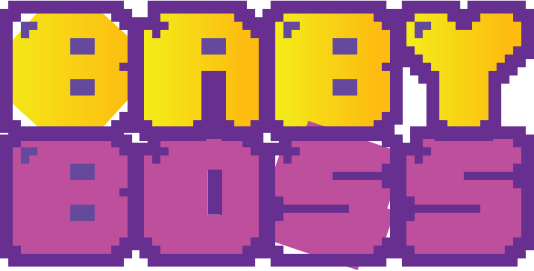
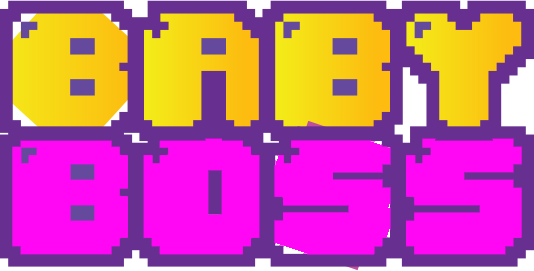
update ui

diff --git a/src/views/market/index.tsx b/src/views/market/index.tsx
@@ -6,11 +6,11 @@ import styled from 'styled-components';
 import { toast } from 'react-toastify';
 import { ApolloClient, InMemoryCache } from '@apollo/client';
 import { GRAPH_API_URL_MARKETPLACE, BACKEND_URL } from 'config/nfts';
-import { GET_NFTS, GetNftsData, Nft, GET_HISTORIES, GET_MARKET_ITEMS, Histories, GET_BUY_HISTORIES, BuyHistoriesData, BuyHistories } from 'queries/querys';
+import { GET_NFTS, GetNftsData, Nft, GET_HISTORIES, HistoriesData, Histories, GET_BUY_HISTORIES, BuyHistoriesData, BuyHistories } from 'queries/querys';
 import { getMarketplaceContract } from 'utils/contractHelpers';
 import Moralis from "moralis";
 // import * from "@moralisweb3";
-import axios from 'axios';
+import axios, {isCancel, AxiosError} from 'axios';
 import { CHAIN } from 'config';
 import { ethers } from 'ethers';
 // import Moralis from "moralis";
@@ -126,26 +126,26 @@ const ownerWallet = '0x2db1f6eC280AECf2035567E862700f24D952573d'
 const Market = ({selectedChain}: {selectedChain: any}) => {
   const web3Context = useWeb3Context();
   const inputRef = useRef<HTMLInputElement>(null);
-  const [marketItems, setMarketItems] = useState<any>([]);
+  const [uploadHistory, setUploadHistory] = useState<any>([]);
   const [buyloadHistory, setbuyloadHistory] = useState<any>([]);
   const [tab, selectTab] = useState<string>('apparels')
   
   useEffect(() => {
     selectedChain(1);
 
-    const fetchItems =async () => {
+    const fetchItems =async (account:string) => {
 			const client = new ApolloClient({
         uri: GRAPH_API_URL_MARKETPLACE,
         cache: new InMemoryCache(),
       });
 
-      const lists = await client.query<any>({ query: GET_MARKET_ITEMS });
+      const lists = await client.query<any>({ query: GET_HISTORIES });
       const buylists = await client.query<any>({ query: GET_BUY_HISTORIES })
 
-      if(lists && lists.data.itemLists.length > 0) {
-        setMarketItems(lists.data.itemLists);
+      if(lists && lists.data.listHistories.length > 0) {
+        setUploadHistory(lists.data.listHistories);
       } else {
-        setMarketItems([]);
+        setUploadHistory([]);
       } 
       // console.log(lists);
       if(buylists && buylists.data.buyHistories.length > 0) {
@@ -156,8 +156,10 @@ const Market = ({selectedChain}: {selectedChain: any}) => {
 
 		}
     
-    fetchItems();
-  }, [selectedChain, tab, marketItems])
+		if (web3Context?.account) {
+      fetchItems(web3Context.account);
+		}
+  }, [selectedChain, tab, uploadHistory])
 
   const [modalOpen1, setModalOpen1] = useState<any>(false)  
   const [modalOpen2, setModalOpen2] = useState<any>(false)  
@@ -202,8 +204,8 @@ const Market = ({selectedChain}: {selectedChain: any}) => {
     } else if (type === "STABLE" ) {
       setSelectedPriceType("STABLE");   
       setProductPrice(priceForUSD as unknown as number);
-    } else if (type === "NONE" ){
-      setSelectedPriceType("NONE");   
+    } else if (type === "NONE" ) {
+      setSelectedPriceType("NONE");
       setProductPrice(0);
     }
  
@@ -226,9 +228,9 @@ const Market = ({selectedChain}: {selectedChain: any}) => {
     let selInfo:any;
 
     console.log("-------------");
-    console.log(marketItems);
+    console.log(uploadHistory);
 
-    marketItems.forEach((item:any) => {
+    uploadHistory.forEach((item:any) => {
       if (item.index === ind) {
         selInfo = item;
       }
@@ -606,7 +608,7 @@ const Market = ({selectedChain}: {selectedChain: any}) => {
     </div>
     <div className='px-4 lg:px-32 py-4 lg:py-4 ' id="nft-lists">
       <div className="grid lg:grid-cols-3 grid-cols-1">
-        {marketItems?.map((item:Histories, index:number) => {
+        {uploadHistory?.map((item:Histories, index:number) => {
           console.log("sniper: count: ", item.count)
           let result = []
           for(let i = 0; i < item.count; i++) {

diff --git a/public/index.html b/public/index.html
@@ -2,7 +2,7 @@
 <html lang="en">
   <head>
     <meta charset="utf-8" />
-    <link rel="icon" href="%PUBLIC_URL%/smlogo.png" />
+    <link rel="icon" href="%PUBLIC_URL%/main-logo.png" />
     <!-- <meta
       name="description"
       content="UNBOX NFT Staking Platform"
@@ -29,7 +29,7 @@
     <meta property="og:description" content="Babyboss NFT" />
     <meta property="og:url" content="%PUBLIC_URL%/" />
     <meta property="og:site_name" content="Babyboss NFT" />
-    <meta property="og:image" content="%PUBLIC_URL%/logo320x320.png" />
+    <meta property="og:image" content="%PUBLIC_URL%/main-logo.png" />
     <meta property="og:image:width" content="420" />
     <meta property="og:image:height" content="420" />
     <meta name="twitter:card" content="summary_large_image" />
@@ -37,27 +37,10 @@
     <meta name="twitter:title" content="Babyboss NFT" />
     <meta name="twitter:image" content="%PUBLIC_URL%/logo420x420.png" />
     
-    <link rel="apple-touch-icon" href="%PUBLIC_URL%/smlogo.png"/>
-    <link rel="icon" type="image/png" sizes="32x32" href="%PUBLIC_URL%/logo320x320.png"/>
-    <link rel="icon" type="image/png" sizes="16x16" href="%PUBLIC_URL%/logo320x320.png"/>
+    <link rel="apple-touch-icon" href="%PUBLIC_URL%/main-logo.png"/>
+    <link rel="icon" type="image/png" sizes="16x16" href="%PUBLIC_URL%/images/main-logo.png"/>
     <link rel="manifest" href="%PUBLIC_URL%/manifest.json" />
-    <link rel="mask-icon" href="%PUBLIC_URL%/logo320x320.png" color="#1cae9d"></link>
-    <link rel="icon" href="%PUBLIC_URL%/favicon.ico" />
-    <!-- <link rel="apple-touch-icon" href="%PUBLIC_URL%/smlogo.png" /> -->
-    <!--
-      manifest.json provides metadata used when your web app is installed on a
-      user's mobile device or desktop. See https://developers.google.com/web/fundamentals/web-app-manifest/
-    -->
-    <!-- <link rel="manifest" href="%PUBLIC_URL%/manifest.json" /> -->
-    <!--
-      Notice the use of %PUBLIC_URL% in the tags above.
-      It will be replaced with the URL of the `public` folder during the build.
-      Only files inside the `public` folder can be referenced from the HTML.
-
-      Unlike "/favicon.ico" or "favicon.ico", "%PUBLIC_URL%/favicon.ico" will
-      work correctly both with client-side routing and a non-root public URL.
-      Learn how to configure a non-root public URL by running `npm run build`.
-    -->
+   
     <title>BABY BOSS</title>
   </head>
   <body>

diff --git a/src/layouts/Footer.tsx b/src/layouts/Footer.tsx
@@ -2,6 +2,7 @@ import React from 'react'
 import { Link, useNavigate } from 'react-router-dom'
 import styled from 'styled-components'
 import footerLayer from '../assets/footer.png'
+import { url } from 'inspector'
 
 const Footer = () => {
   
@@ -18,9 +19,17 @@ const Footer = () => {
         </div>
         <div className='category-footer sm:justify-center lg:float-right md:float-none sm:float-none'>
           <div className='flex'>
-            <a className='footer-icons' href='https://opensea.io/collection/babybossnft'  />
-            <a className='footer-icons' href='https://instagram.com/babybossnft?igshid=Mzc1MmZhNjY=' />
-            <a className='footer-icons' href='https://twitter.com/babybossnft?s=21&t=P8UFi7S8A4VLar67cgVp7g' />
+            <div className='footer-icons'>
+              <a href='https://opensea.io/collection/babybossnft' >
+                <img src='/images/icons/opensea.png' />
+              </a>
+            </div>
+            <a className='footer-icons' href='https://instagram.com/babybossnft?igshid=Mzc1MmZhNjY='>
+              <img src='/images/icons/instagram.png' />
+            </a>
+            <a className='footer-icons' href='https://twitter.com/babybossnft?s=21&t=P8UFi7S8A4VLar67cgVp7g'>
+              <img src='/images/icons/twitter.png' />
+            </a>
           </div>
           <div style={{ paddingLeft: '10px', color: '#FFFFFF', paddingTop: '20px' }}>
             Built by BabyBoss. All Rights Reserved © 2022 

diff --git a/src/views/main/index.tsx b/src/views/main/index.tsx
@@ -125,7 +125,7 @@ const Main = (setLoader: any) => {
 						merch and more, available to order today.
 					</p>
 					<div className=' text-left md:text-center lg:text-left'>
-						<button className='ml-10 my-5 mr-10 bg-red-100 w-60 pt-2 py-2 mt-4 rounded-full text-center font3 lg:text-2xl ' style={{ color: '#bd4f9d' }}>SHOW NOW!</button>
+						<button className='ml-10 my-5 mr-10 bg-red-100 w-60 pt-2 py-2 mt-4 rounded-full text-center font3 lg:text-2xl ' style={{ color: '#ff06f5' }}>SHOW NOW!</button>
 					</div>
         </div>
 			</div>

diff --git a/src/queries/querys.ts b/src/queries/querys.ts
@@ -39,22 +39,6 @@ export interface Histories {
 export interface HistoriesData {
 	items : Histories[];
 }  
-
-export const GET_MARKET_ITEMS = gql`
-	query GetMarketItems {
-		itemLists {
-			createdAt
-			count
-			category
-			imgHash
-			index
-			priceForBBOSS
-			priceForMATIC
-			priceForUSD
-			title
-		}
-	}
-`
  
 export const GET_HISTORIES = gql`
 	query GetHistories {

diff --git a/src/index.css b/src/index.css
@@ -133,6 +133,13 @@ body {
   padding-right: 20px;
 }
 
+.footer-main .body a img {
+  height: 100%;
+  width: 100%;
+  padding: 0px;
+  margin: 0px;
+}
+
 .footer-main .category-footer {
   /* @apply sm:p-0 sm:justify-center lg:right-0; */
 }
